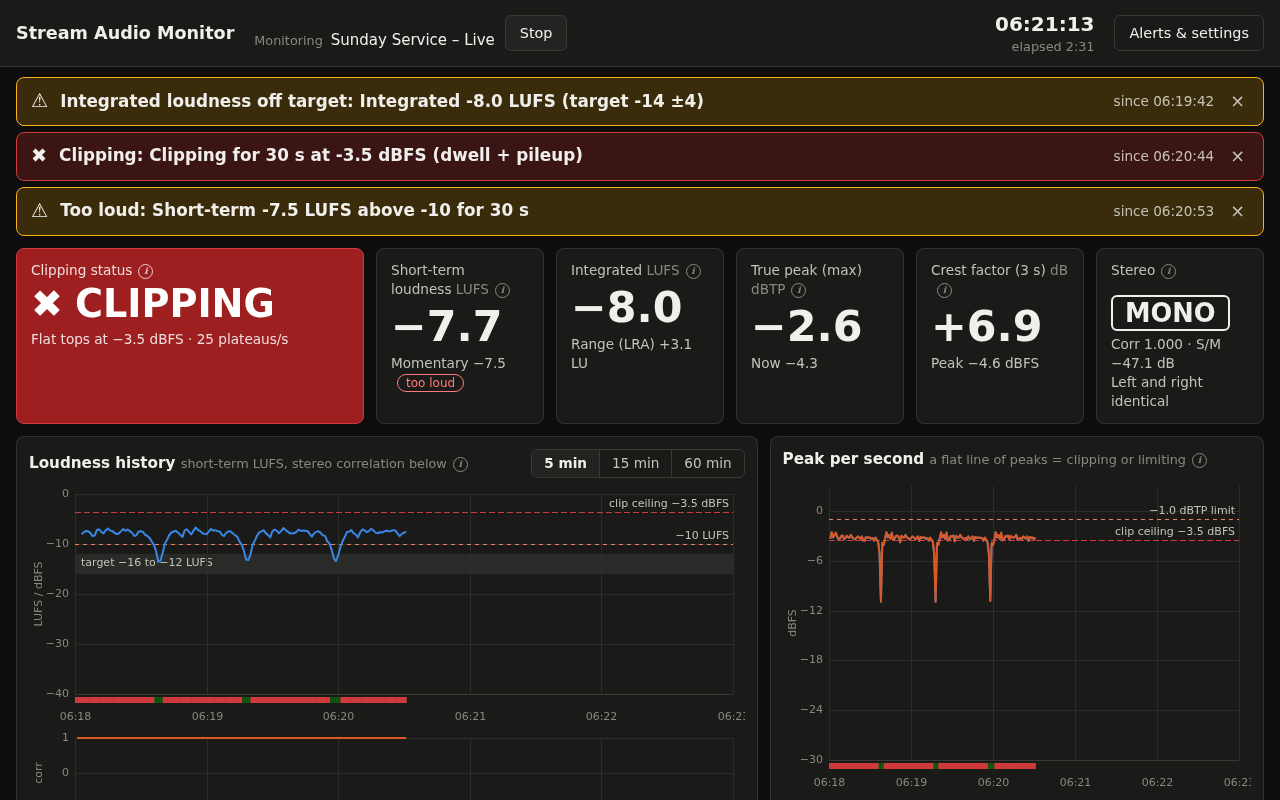
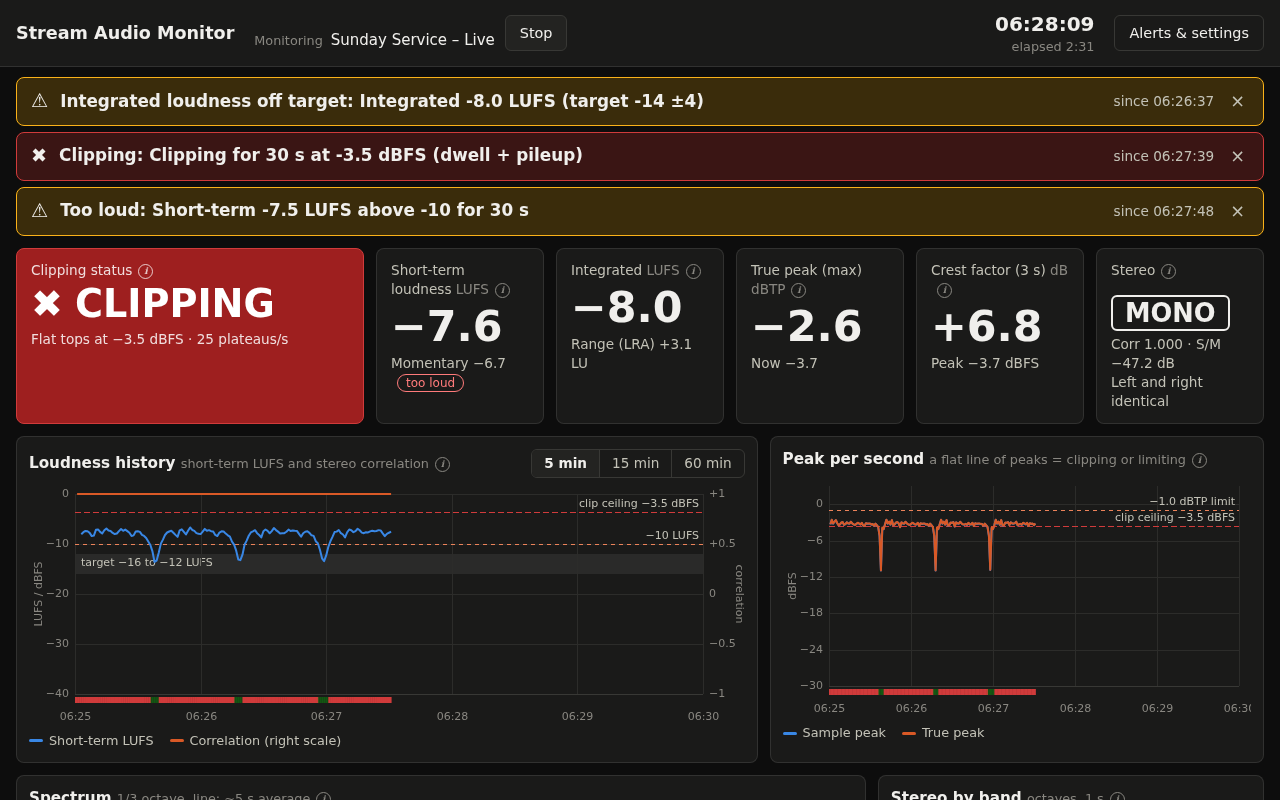
Loudness history: correlation on a right-hand scale in the same chart
The separate correlation strip (and its repeated time axis) is merged into
the loudness chart: correlation is drawn on its own -1..+1 scale on the
right, whose steps land on the LUFS gridlines. The charts row is 80 px
shorter. TimeChart gains an optional right-hand scale for 'right' series.

Claude-Session: https://claude.ai/code/session_01UYhwTYfi8m6hVqmHHSHws2

diff --git a/src/ui/charts.js b/src/ui/charts.js
@@ -8,7 +8,8 @@ const STATUS_FAINT = new Set(['CLEAN']); // drawn at reduced opacity: the normal
 const X_STEPS = [5, 10, 15, 30, 60, 120, 300, 600, 900, 1800, 3600];
 
 export class TimeChart {
-  // opts: { yMin, yMax, yStep, series: [{ key, label, colour, format(v) }], band: { from, to, label },
+  // opts: { yMin, yMax, yStep, series: [{ key, label, colour, format(v), axis: 'right' }],
+  //         right: { min, max, step, unit } (a second scale on the right for axis: 'right' series), band: { from, to, label },
   //         refs: (chart) => [{ y, label, dash }], statusStrip, statusKey, statusColours,
   //         statusFaint, xFormat(t), onClick(t), unit }
   constructor(canvas, opts) {
@@ -76,7 +77,7 @@ export class TimeChart {
 
   get plot() {
     const strip = this.opts.statusStrip ? 10 : 0;
-    return { l: 46, r: this.w - 12, t: 8, b: this.h - 22 - strip, strip };
+    return { l: 46, r: this.w - (this.opts.right ? 42 : 12), t: 8, b: this.h - 22 - strip, strip };
   }
 
   x(t) {
@@ -89,6 +90,15 @@ export class TimeChart {
     const { yMin, yMax } = this.opts;
     const c = Math.max(yMin, Math.min(yMax, v));
     return p.b - ((c - yMin) / (yMax - yMin)) * (p.b - p.t);
+  }
+
+  // y for a series value, on the right-hand scale for axis: 'right' series.
+  ys(s, v) {
+    const r = this.opts.right;
+    if (s.axis !== 'right' || !r) return this.y(v);
+    const p = this.plot;
+    const c = Math.max(r.min, Math.min(r.max, v));
+    return p.b - ((c - r.min) / (r.max - r.min)) * (p.b - p.t);
   }
 
   tAt(e) {
@@ -171,6 +181,22 @@ export class TimeChart {
     ctx.textAlign = 'center';
     ctx.fillText(o.unit, 0, 0);
     ctx.restore();
+    // Right-hand scale: labels only, placed on the left scale's gridlines when the steps line up.
+    if (o.right) {
+      const r = o.right;
+      ctx.textAlign = 'left';
+      for (let v = r.min; v <= r.max + 1e-9; v += r.step) {
+        const y = p.b - ((v - r.min) / (r.max - r.min)) * (p.b - p.t);
+        const text = (v > 0 ? `+${v}` : String(Math.round(v * 100) / 100)).replace('-', '−');
+        ctx.fillText(text, p.r + 6, Math.round(y) + 0.5);
+      }
+      ctx.save();
+      ctx.translate(this.w - 6, (p.t + p.b) / 2);
+      ctx.rotate(Math.PI / 2);
+      ctx.textAlign = 'center';
+      ctx.fillText(r.unit, 0, 0);
+      ctx.restore();
+    }
 
     // X ticks.
     const span = this.xEnd - this.xStart;
@@ -252,11 +278,11 @@ export class TimeChart {
       let pen = false;
       for (let i = Math.max(0, first - 1); i < rows.length; i++) {
         const v = rows[i][s.key];
-        if (!Number.isFinite(v) || v < o.yMin - 20) {
+        if (!Number.isFinite(v) || (s.axis !== 'right' && v < o.yMin - 20)) {
           pen = false;
           continue;
         }
-        const x = this.x(rows[i].t), y = this.y(v);
+        const x = this.x(rows[i].t), y = this.ys(s, v);
         if (pen) ctx.lineTo(x, y);
         else ctx.moveTo(x, y);
         pen = true;
@@ -293,7 +319,7 @@ export class TimeChart {
         ctx.strokeStyle = css('--surface');
         ctx.lineWidth = 2;
         ctx.beginPath();
-        ctx.arc(x, this.y(v), 4.5, 0, Math.PI * 2);
+        ctx.arc(x, this.ys(s, v), 4.5, 0, Math.PI * 2);
         ctx.fill();
         ctx.stroke();
       }

diff --git a/index.html b/index.html
@@ -107,21 +107,20 @@
       <section class="charts">
         <div class="panel chart-panel wide">
           <div class="panel-head">
-            <h2 data-help="history">Loudness history <span class="muted small">short-term LUFS, stereo correlation below</span></h2>
+            <h2 data-help="history">Loudness history <span class="muted small">short-term LUFS and stereo correlation</span></h2>
             <div class="seg" role="group" aria-label="History length">
               <button type="button" data-range="300" class="on">5 min</button>
               <button type="button" data-range="900">15 min</button>
               <button type="button" data-range="3600">60 min</button>
             </div>
           </div>
-          <div class="chart-wrap"><canvas id="history" height="240" aria-label="Short-term loudness history"></canvas></div>
-          <div class="chart-wrap corr-strip"><canvas id="corr-history" height="100" aria-label="Stereo correlation over time"></canvas></div>
+          <div class="chart-wrap"><canvas id="history" height="240" aria-label="Short-term loudness and stereo correlation history"></canvas></div>
         </div>
         <div class="panel chart-panel wide">
           <div class="panel-head">
             <h2 data-help="peaks">Peak per second <span class="muted small">a flat line of peaks = clipping or limiting</span></h2>
           </div>
-          <div class="chart-wrap"><canvas id="peaks" height="314" aria-label="Peak level per second"></canvas></div>
+          <div class="chart-wrap"><canvas id="peaks" height="240" aria-label="Peak level per second"></canvas></div>
         </div>
       </section>
 

diff --git a/extension/dashboard.html b/extension/dashboard.html
@@ -66,21 +66,20 @@
       <section class="charts">
         <div class="panel chart-panel wide">
           <div class="panel-head">
-            <h2 data-help="history">Loudness history <span class="muted small">short-term LUFS, stereo correlation below</span></h2>
+            <h2 data-help="history">Loudness history <span class="muted small">short-term LUFS and stereo correlation</span></h2>
             <div class="seg" role="group" aria-label="History length">
               <button type="button" data-range="300" class="on">5 min</button>
               <button type="button" data-range="900">15 min</button>
               <button type="button" data-range="3600">60 min</button>
             </div>
           </div>
-          <div class="chart-wrap"><canvas id="history" height="240" aria-label="Short-term loudness history"></canvas></div>
-          <div class="chart-wrap corr-strip"><canvas id="corr-history" height="100" aria-label="Stereo correlation over time"></canvas></div>
+          <div class="chart-wrap"><canvas id="history" height="240" aria-label="Short-term loudness and stereo correlation history"></canvas></div>
         </div>
         <div class="panel chart-panel wide">
           <div class="panel-head">
             <h2 data-help="peaks">Peak per second <span class="muted small">a flat line of peaks = clipping or limiting</span></h2>
           </div>
-          <div class="chart-wrap"><canvas id="peaks" height="314" aria-label="Peak level per second"></canvas></div>
+          <div class="chart-wrap"><canvas id="peaks" height="240" aria-label="Peak level per second"></canvas></div>
         </div>
       </section>
 

diff --git a/src/ui/help.js b/src/ui/help.js
@@ -16,7 +16,7 @@ export const HELP = {
   stereo:
     'One word for the stereo picture. MONO: left and right identical. STEREO OK: balanced, with positive correlation. WIDE: most of the sound has little in common between the sides. UNBALANCED: the whole mix is more than 3 dB louder on one side. PHASE PROBLEM: a loud band is out of phase and cancels on mono speakers and phones (this raises an alert). Corr is the overall left/right correlation; S/M is how much side (stereo) content there is compared with the centre.',
   history:
-    'Short-term loudness over time. The shaded band is the −16 to −12 LUFS target. Dashed lines: −10 LUFS (too loud) and the level the peaks keep reaching (the clip ceiling when clipping). The coloured strip underneath is the status each second: green clean, amber limited, red clipping. Below that, the stereo correlation on the same time axis: +1 mono, 0 wide, below 0 out of phase. Hover the graphs for values.',
+    'Short-term loudness over time. The shaded band is the −16 to −12 LUFS target. Dashed lines: −10 LUFS (too loud) and the level the peaks keep reaching (the clip ceiling when clipping). The coloured strip underneath is the status each second: green clean, amber limited, red clipping. The orange line is the stereo correlation, read on the right-hand scale: +1 mono, 0 wide, below 0 out of phase. Hover the graph for values.',
   peaks:
     'The highest sample (blue) and true peak (orange) in each second. Natural audio makes a jagged line. A flat line of peaks sitting at one level means something is clipping or limiting. Dashed lines: the true-peak alert limit and the ceiling.',
   spectrum:

diff --git a/src/ui/meters.js b/src/ui/meters.js
@@ -178,22 +178,18 @@ export function timeFormatter(getState) {
   };
 }
 
+// The full version also draws the stereo correlation, on its own scale on the right
+// (−1…+1, whose steps land on the LUFS gridlines).
 export function createHistoryChart(canvas, xFormat, { compact = false } = {}) {
+  const series = [{ key: 'shortTerm', label: 'Short-term LUFS', colour: '--series-1' }];
+  if (!compact) series.push({ key: 'correlation', label: 'Correlation (right scale)', colour: '--series-2', axis: 'right', format: (v) => v.toFixed(2) });
   return new TimeChart(canvas, {
     yMin: -40, yMax: 0, yStep: 10, unit: compact ? 'LUFS' : 'LUFS / dBFS',
-    series: [{ key: 'shortTerm', label: 'Short-term LUFS', colour: '--series-1' }],
+    right: compact ? null : { min: -1, max: 1, step: 0.5, unit: 'correlation' },
+    series,
     band: { from: -16, to: -12, label: compact ? 'target' : 'target −16 to −12 LUFS' },
     refs: (c) => [{ y: -10, label: '−10 LUFS', colour: '--serious' }, ...ceilingRef(c.rows)],
     statusStrip: true,
-    xFormat,
-  });
-}
-
-// Stereo correlation strip under the loudness history, on the same time axis.
-export function createCorrelationChart(canvas, xFormat) {
-  return new TimeChart(canvas, {
-    yMin: -1, yMax: 1, yStep: 1, unit: 'corr',
-    series: [{ key: 'correlation', label: 'Correlation', colour: '--series-2', format: (v) => v.toFixed(2) }],
     xFormat,
   });
 }

diff --git a/src/ui/app.js b/src/ui/app.js
@@ -12,7 +12,7 @@ import { EventLog } from './log.js';
 import { SessionRecorder } from './session.js';
 import { setupSettings } from './settings.js';
 import { setupHelp } from './help.js';
-import { MetersView, renderAlertBanners, createHistoryChart, createCorrelationChart, createPeakChart, showRecent, timeFormatter, bindMeterResets } from './meters.js';
+import { MetersView, renderAlertBanners, createHistoryChart, createPeakChart, showRecent, timeFormatter, bindMeterResets } from './meters.js';
 import { HumView } from './hum-view.js';
 import { fmtDb, fmtDuration, fmtClock, fmtStamp, fileStamp, download } from './format.js';
 
@@ -97,7 +97,6 @@ let panL = null, panR = null; // reused spectrum buffers
 const meters = new MetersView(() => state.alertCfg);
 const xFormat = timeFormatter(() => state);
 const historyChart = createHistoryChart($('history'), xFormat);
-const corrChart = createCorrelationChart($('corr-history'), xFormat);
 const peakChart = createPeakChart($('peaks'), xFormat, () => state.alertCfg);
 const humView = new HumView(() => state.alertCfg);
 
@@ -171,7 +170,7 @@ function resetReadouts() {
 }
 
 function redrawCharts() {
-  showRecent([historyChart, corrChart, peakChart], state.history, state.historyRange);
+  showRecent([historyChart, peakChart], state.history, state.historyRange);
 }
 
 let lastTick = performance.now();

diff --git a/extension/view.js b/extension/view.js
@@ -4,7 +4,7 @@
 
 import { connectHub } from './client.js';
 import { checkPlayer, describePlayer } from './player.js';
-import { MetersView, renderAlertBanners, createHistoryChart, createCorrelationChart, createPeakChart, showRecent, timeFormatter, bindMeterResets } from './src/ui/meters.js';
+import { MetersView, renderAlertBanners, createHistoryChart, createPeakChart, showRecent, timeFormatter, bindMeterResets } from './src/ui/meters.js';
 import { EventLog } from './src/ui/log.js';
 import { SpectrumView } from './src/ui/spectrum.js';
 import { PanMapView } from './src/ui/pan-map.js';
@@ -45,7 +45,6 @@ const meters = new MetersView(() => state.cfg);
 const xFormat = timeFormatter(() => ({ mode: 'live', startWall: state.session ? state.session.startWall : 0 }));
 const charts = [];
 if ($('history')) charts.push(createHistoryChart($('history'), xFormat, { compact }));
-if ($('corr-history')) charts.push(createCorrelationChart($('corr-history'), xFormat));
 if ($('peaks')) charts.push(createPeakChart($('peaks'), xFormat, () => state.cfg));
 const spectrum = $('bands') ? new SpectrumView({ bands: $('bands'), sgram: $('sgram'), balance: $('balance') }) : null;
 const panMap = $('pan-map') ? new PanMapView($('pan-map')) : null;

diff --git a/css/app.css b/css/app.css
@@ -164,7 +164,6 @@ main { padding: 12px 16px 24px; display: flex; flex-direction: column; gap: 12px
 .badge[data-stereo='warn'] { border-color: var(--warning); color: var(--text); background: rgba(250, 178, 25, 0.12); }
 .badge[data-stereo='crit'] { border-color: var(--critical); color: var(--text); background: rgba(208, 59, 59, 0.22); }
 .badge.long { font-size: clamp(0.75rem, 6.5cqi, 1.3rem); padding: 4px 10px; white-space: nowrap; }
-.corr-strip { margin-top: 4px; }
 
 .chip { display: inline-block; font-size: 0.75rem; padding: 0 8px; border-radius: 10px; border: 1px solid currentColor; margin-left: 6px; }
 .chip.good { color: var(--good); }

diff --git a/CLAUDE.md b/CLAUDE.md
@@ -146,7 +146,7 @@ Display only: no alert or status depends on it. Each octave band (31 Hz – 16 k
   - It scrolls one row per UI tick (10/s), so the history length is set by the canvas height.
 - **Column heights are balanced by hand.** In `index.html` and `extension/dashboard.html`:
   - the `#sgram` height attribute is chosen so the spectrum panel ends level with the right-hand column (Stereo by band + Pan map);
-  - the `#peaks` height is chosen so the peak chart matches the loudness history plus its correlation strip.
+  - the `#peaks` height is chosen so the peak chart matches the loudness history (which also draws the stereo correlation, on a right-hand scale).
   - After changing either column, re-measure in a browser and adjust that height.
   - Also update the size limit in the "spectrum canvases keep their size" checks in `test/e2e.mjs` and `test/e2e-extension.mjs`.
 - **Hover help:** every meter tile and panel heading carries `data-help="<key>"`. The volunteer-facing text for each key lives only in `HELP` in `src/ui/help.js`, shared by all three pages. `test/help.test.js` fails if a card has no key or a key has no text.
